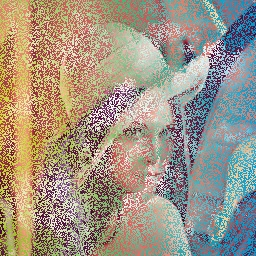
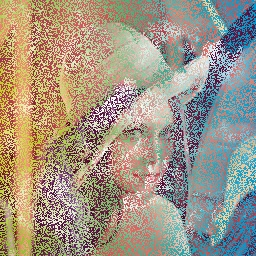
Update blend mode

diff --git a/basic_algorithm/blend_mode/blend.py b/basic_algorithm/blend_mode/blend.py
@@ -11,7 +11,7 @@ from matplotlib.pyplot import flag
 import numpy as np
 
 def Normal(img1,img2,alpha=.5):
-    res = alpha * img1 + (1 - alpha) * img2
+    res = alpha * img2 + (1 - alpha) * img1
     return res.astype(np.uint8)
 
 def Dissolve(img1,img2,alpha=.5):
@@ -224,6 +224,35 @@ def Divide(img1,img2):#划分
     res = (res*255).astype(np.uint8)
     return res
 
+def Hue(img1, img2):#色相
+    img1 = cv2.cvtColor(img1,cv2.COLOR_BGR2HSV)
+    img2 = cv2.cvtColor(img2,cv2.COLOR_BGR2HSV)
+    img2[:,:,0] = img1[:,:,0]
+    res = cv2.cvtColor(img2,cv2.COLOR_HSV2BGR)
+    return res
+
+def Saturation(img1,img2):#饱和度
+    img1 = cv2.cvtColor(img1,cv2.COLOR_BGR2HSV)
+    img2 = cv2.cvtColor(img2,cv2.COLOR_BGR2HSV)
+    img2[:,:,1] = img1[:,:,1]
+    res = cv2.cvtColor(img2,cv2.COLOR_HSV2BGR)
+    return res
+
+def Color(img1,img2):#颜色
+    img1 = cv2.cvtColor(img1,cv2.COLOR_BGR2HSV)
+    img2 = cv2.cvtColor(img2,cv2.COLOR_BGR2HSV)
+    img2[:,:,0] = img1[:,:,0]
+    img2[:,:,1] = img1[:,:,1]
+    res = cv2.cvtColor(img2,cv2.COLOR_HSV2BGR)
+    return res
+
+def Lightness(img1,img2):#明度
+    img1 = cv2.cvtColor(img1,cv2.COLOR_BGR2HSV)
+    img2 = cv2.cvtColor(img2,cv2.COLOR_BGR2HSV)
+    img2[:,:,2] = img1[:,:,2]
+    res = cv2.cvtColor(img2,cv2.COLOR_HSV2BGR)
+    return res
+
 if __name__ == '__main__':
     img1 = cv2.imread('./sample/lena.jpg')
     img2 = cv2.imread('./sample/background.jpg')
@@ -251,6 +280,10 @@ if __name__ == '__main__':
     exclusion = Exclusion(img1,img2)
     subtract = Subtract(img1,img2)
     divide = Divide(img1,img2)
+    hue = Hue(img1,img2)
+    saturation = Saturation(img1,img2)
+    color = Color(img1,img2)
+    lightness = Lightness(img1,img2)
     cv2.imwrite('./result/normal.jpg',normal)
     cv2.imwrite('./result/dissolve.jpg',dissolve)
     cv2.imwrite('./result/screen.jpg',screen)
@@ -274,3 +307,7 @@ if __name__ == '__main__':
     cv2.imwrite('./result/exclusion.jpg',exclusion)
     cv2.imwrite('./result/subtract.jpg',subtract)
     cv2.imwrite('./result/divide.jpg',divide)
+    cv2.imwrite('./result/hue.jpg',hue)
+    cv2.imwrite('./result/saturation.jpg',saturation)
+    cv2.imwrite('./result/color.jpg',color)
+    cv2.imwrite('./result/lightness.jpg',lightness)
